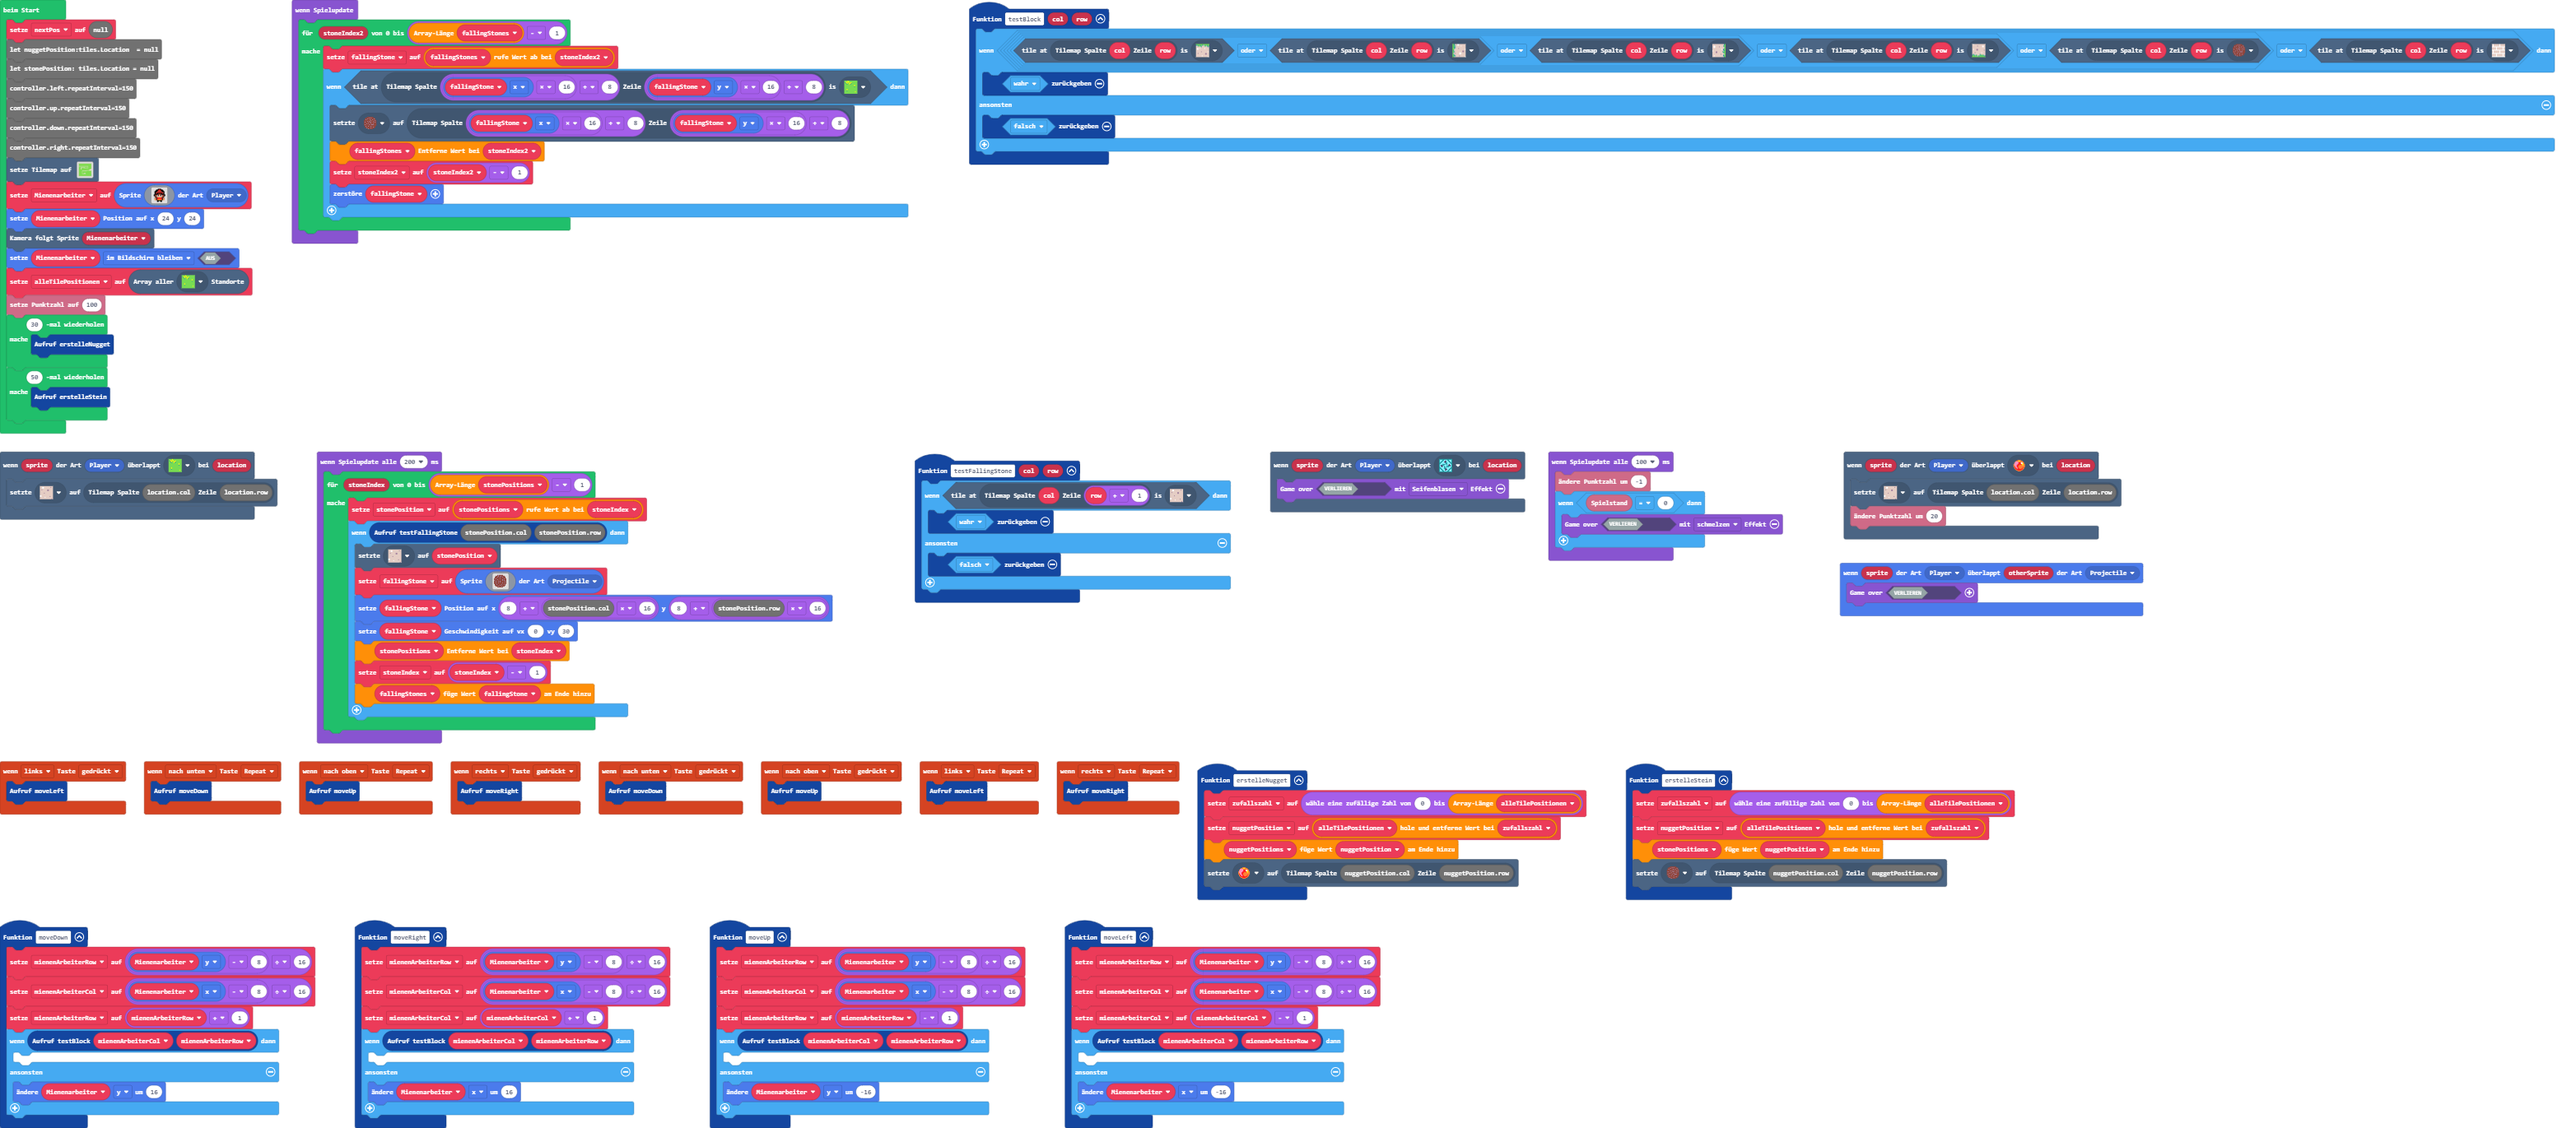
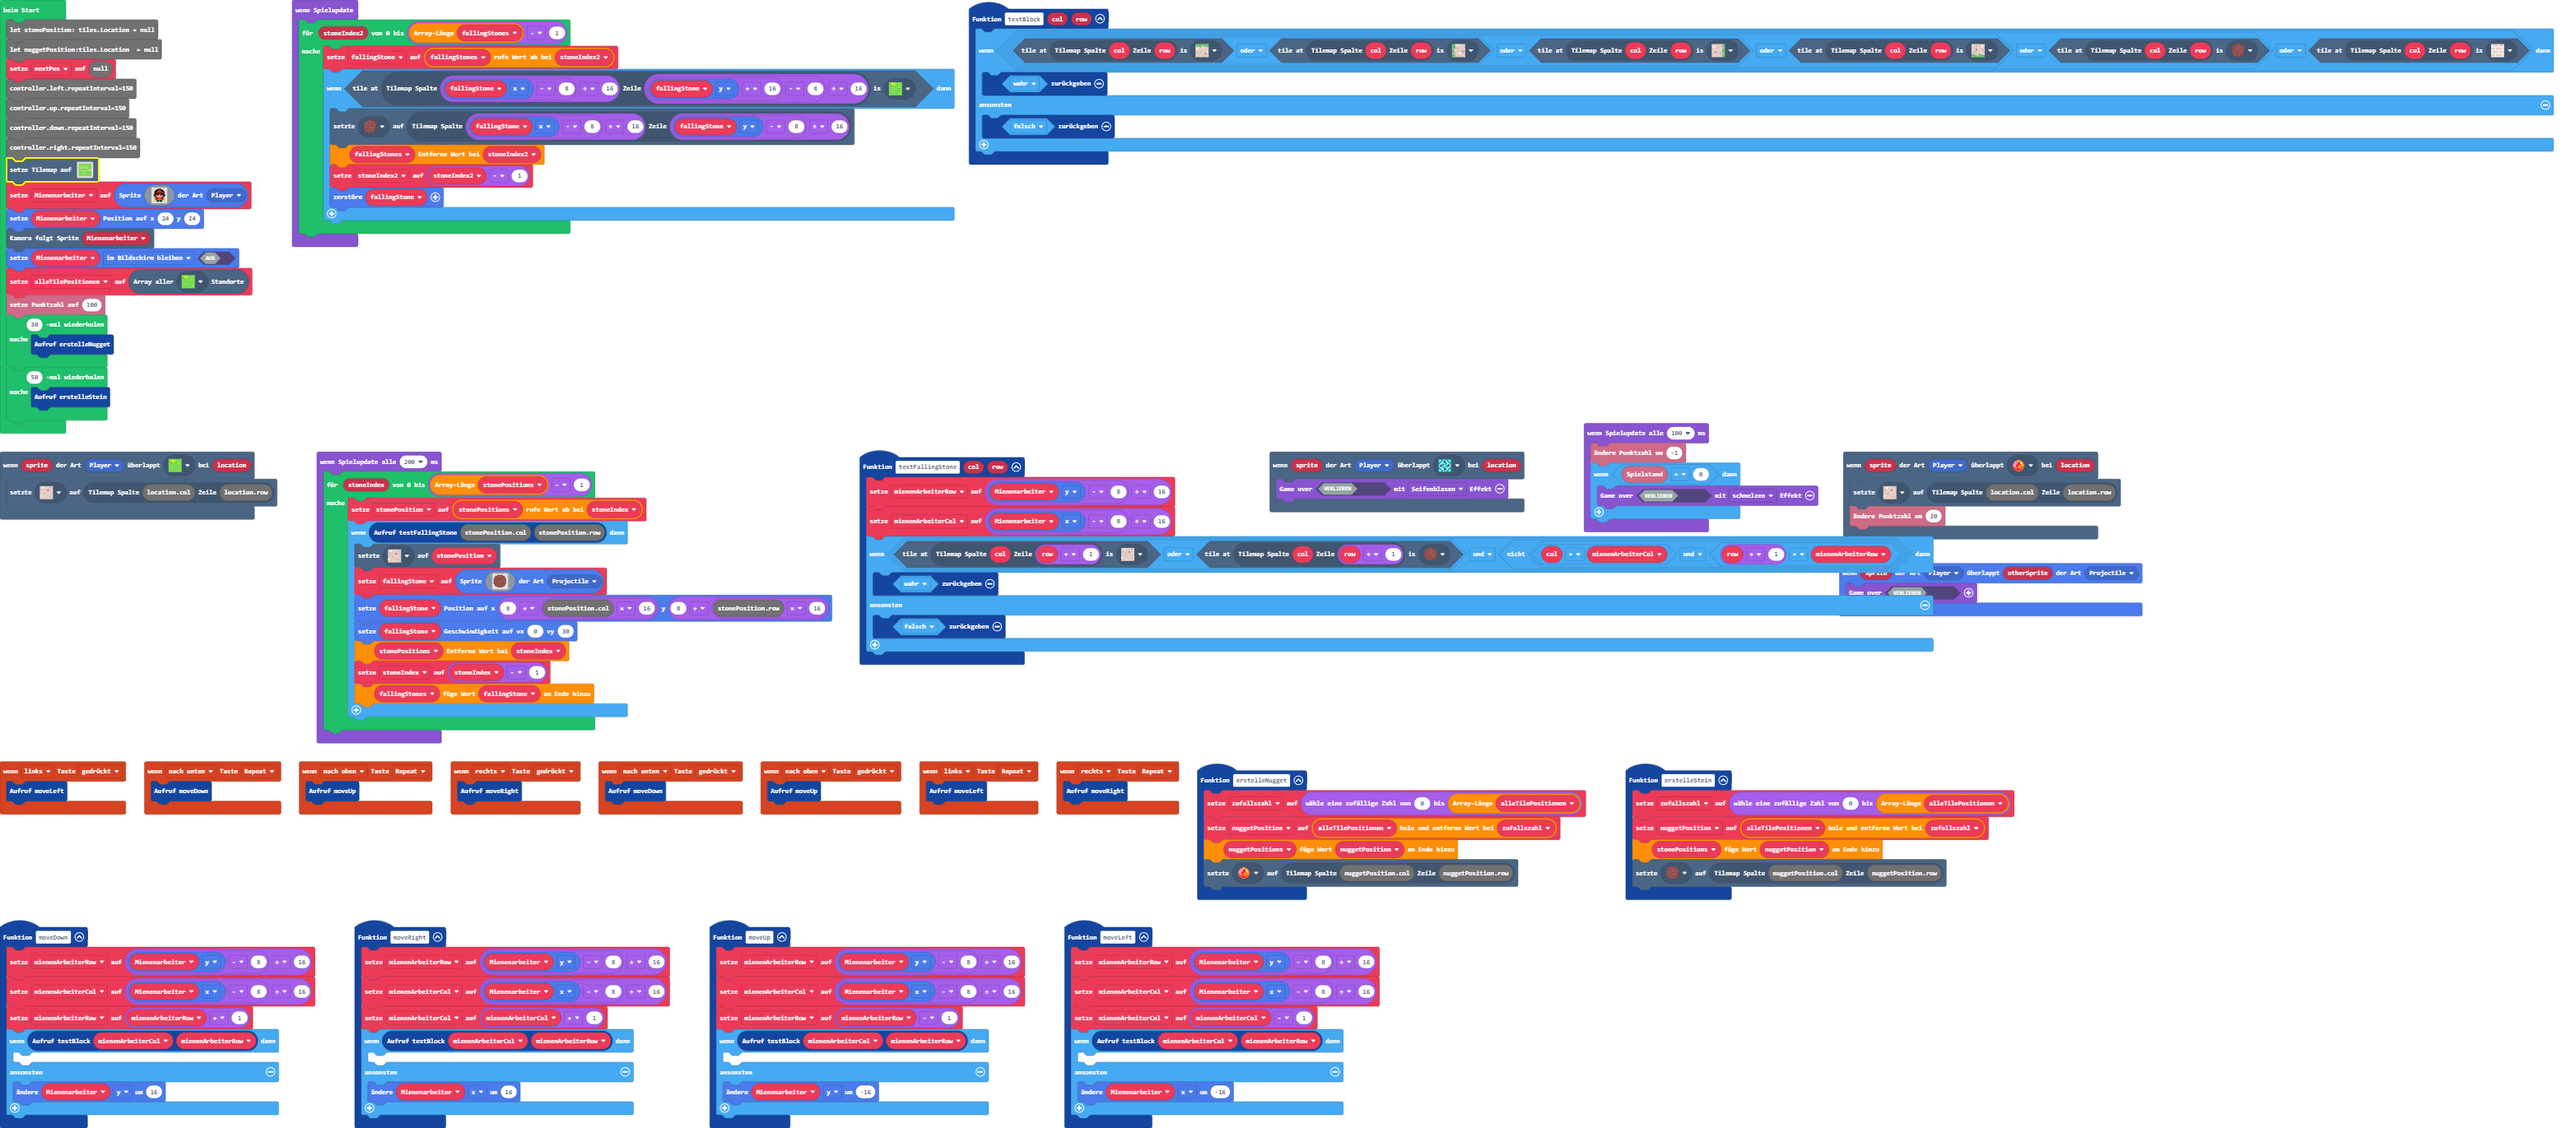
Improved coloring for stones

diff --git a/main.ts b/main.ts
@@ -33,8 +33,7 @@ controller.left.onEvent(ControllerButtonEvent.Pressed, function () {
 function testFallingStone (col: number, row: number) {
     mienenArbeiterRow = (Mienenarbeiter.y - 8) / 16
     mienenArbeiterCol = (Mienenarbeiter.x - 8) / 16
-    if ((tiles.tileAtLocationEquals(tiles.getTileLocation(col, row + 1), sprites.castle.tilePath5)) && 
-        (!((col == mienenArbeiterCol) && (row+1==mienenArbeiterRow)))) {
+    if ((tiles.tileAtLocationEquals(tiles.getTileLocation(col, row + 1), sprites.castle.tilePath5) || tiles.tileAtLocationEquals(tiles.getTileLocation(col, row + 1), myTiles.tile1)) && !(col == mienenArbeiterCol && row + 1 == mienenArbeiterRow)) {
         return true
     } else {
         return false
@@ -116,9 +115,9 @@ let mienenArbeiterCol = 0
 let mienenArbeiterRow = 0
 let alleTilePositionen: tiles.Location[] = []
 let Mienenarbeiter: Sprite = null
-let nextPos = null
-let nuggetPosition:tiles.Location  = null
 let stonePosition: tiles.Location = null
+let nuggetPosition:tiles.Location  = null
+let nextPos = null
 controller.left.repeatInterval=150
 controller.up.repeatInterval=150
 controller.down.repeatInterval=150
@@ -156,9 +155,8 @@ for (let index = 0; index < 50; index++) {
 game.onUpdate(function () {
     for (let stoneIndex2 = 0; stoneIndex2 <= fallingStones.length - 1; stoneIndex2++) {
         fallingStone = fallingStones[stoneIndex2]
-        console.debug("fallingStone.x:"+fallingStone.x+" y:"+fallingStone.y)
-        if (tiles.tileAtLocationEquals(tiles.getTileLocation((fallingStone.x -8)/16, (fallingStone.y - 8)/16), sprites.castle.tileGrass1)) {
-            tiles.setTileAt(tiles.getTileLocation(fallingStone.x * 16 + 8, fallingStone.y * 16 + 8), myTiles.tile1)
+        if (tiles.tileAtLocationEquals(tiles.getTileLocation((fallingStone.x - 8) / 16, (fallingStone.y + 16 - 8) / 16), sprites.castle.tileGrass1)) {
+            tiles.setTileAt(tiles.getTileLocation((fallingStone.x - 8) / 16, (fallingStone.y - 8) / 16), myTiles.tile1)
             fallingStones.removeAt(stoneIndex2)
             stoneIndex2 = stoneIndex2 - 1
             fallingStone.destroy()

diff --git a/tilemap.g.ts b/tilemap.g.ts
@@ -4,6 +4,8 @@ namespace myTiles {
     export const transparency16 = image.ofBuffer(hex``);
     //% fixedInstance jres blockIdentity=images._tile
     export const tile1 = image.ofBuffer(hex``);
+    //% fixedInstance jres blockIdentity=images._tile
+    export const tile2 = image.ofBuffer(hex``);
 
     helpers.registerTilemapFactory(function(name: string) {
         switch(helpers.stringTrim(name)) {
